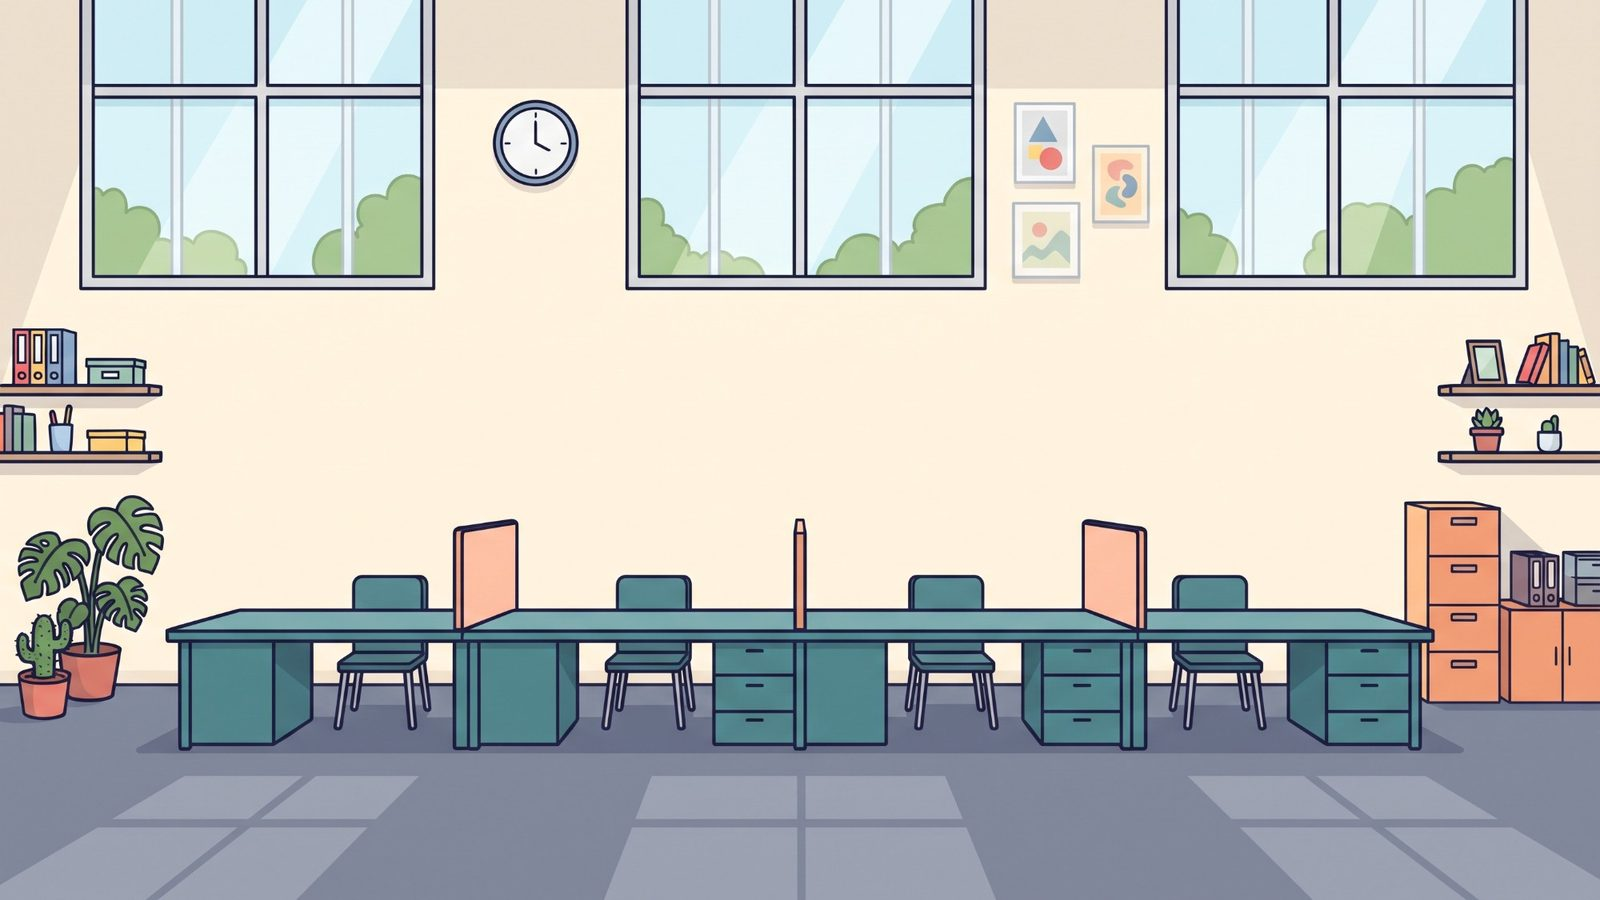
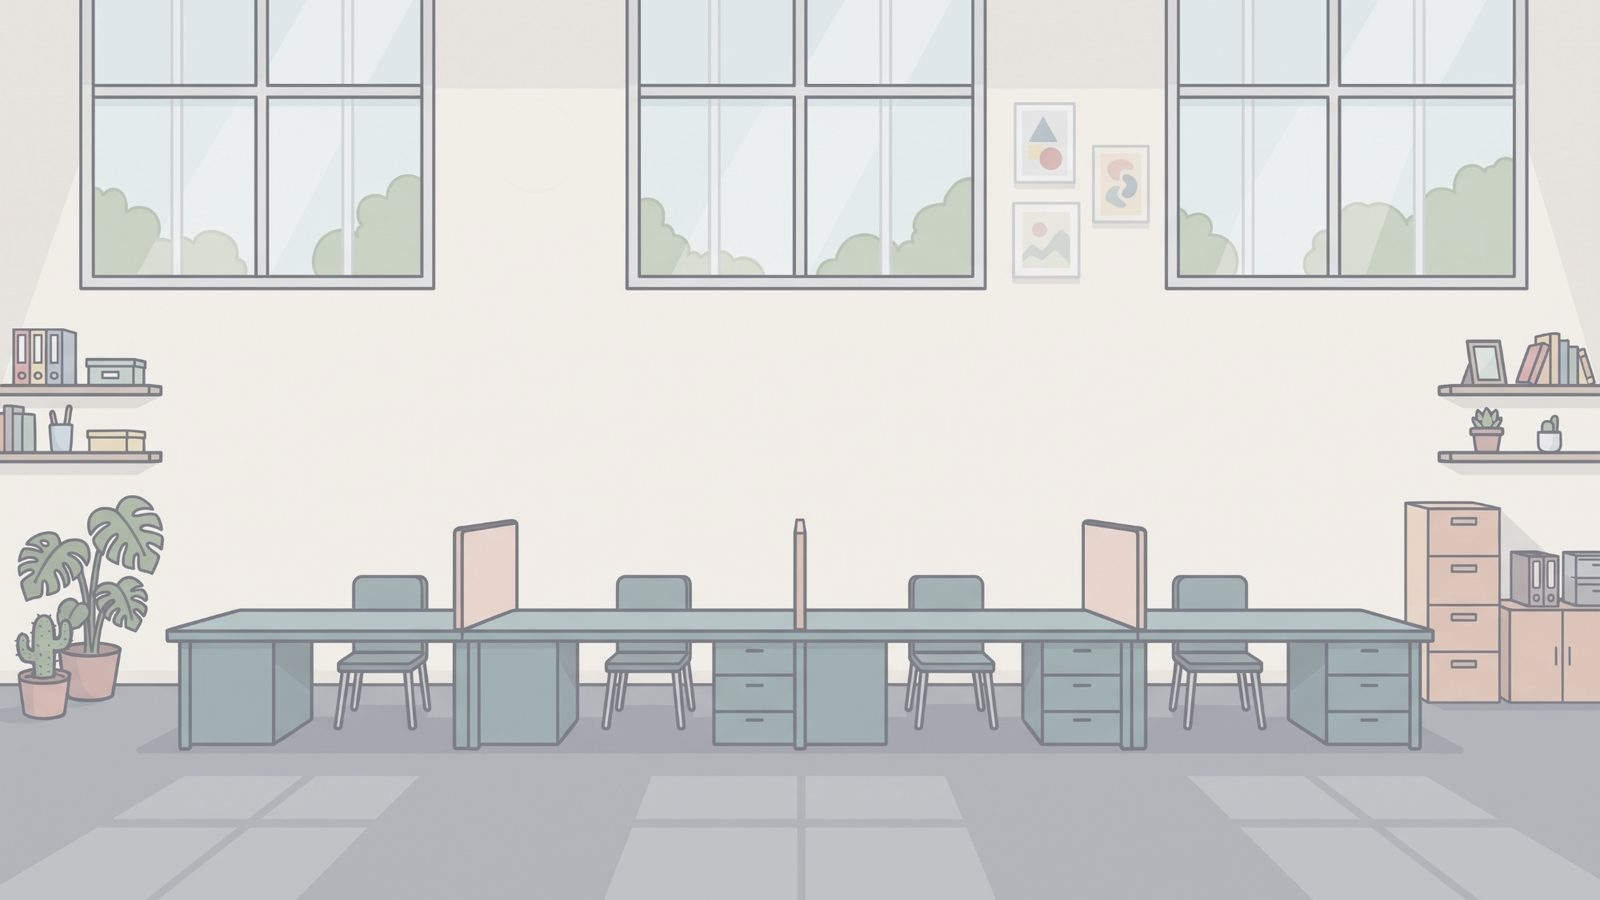
Фоны: убраны часы на Кухне и в Офисе, все фоны сильно приглушены
Часы на фоне закрашены цветом стены (часы — предмет сцены). Все фоны
обесцвечены и осветлены, чтобы предметы-наклейки выделялись.

Claude-Session: https://claude.ai/code/session_01JBsyaViEiqEsoXfzRmfMxd

diff --git a/public/js/art.js b/public/js/art.js
@@ -611,9 +611,7 @@
     var out = '<svg class="scene-svg" viewBox="0 0 1600 900" preserveAspectRatio="xMidYMid meet" xmlns="http://www.w3.org/2000/svg">' +
       '<defs><filter id="glow" x="-30%" y="-30%" width="160%" height="160%"><feDropShadow dx="0" dy="0" stdDeviation="10" flood-color="#ffd60a" flood-opacity="1"/></filter></defs>' +
       ((root.ART_BACKGROUNDS || []).indexOf(scene.id) >= 0
-        ? '<image href="/img/bg/' + scene.id + '.jpg" x="0" y="0" width="1600" height="900" preserveAspectRatio="xMidYMid slice"/>' +
-          // лёгкая вуаль: декорации фона уходят назад, предметы-наклейки читаются лучше
-          '<rect width="1600" height="900" fill="#fff" opacity=".28"/>'
+        ? '<image href="/img/bg/' + scene.id + '.jpg" x="0" y="0" width="1600" height="900" preserveAspectRatio="xMidYMid slice"/>'
         : (BACKGROUNDS[scene.id] ? BACKGROUNDS[scene.id]() : ''));
     scene.items.forEach(function (it) {
       var s = it.size || 150, x = it.x - s / 2, y = it.y - s / 2;
